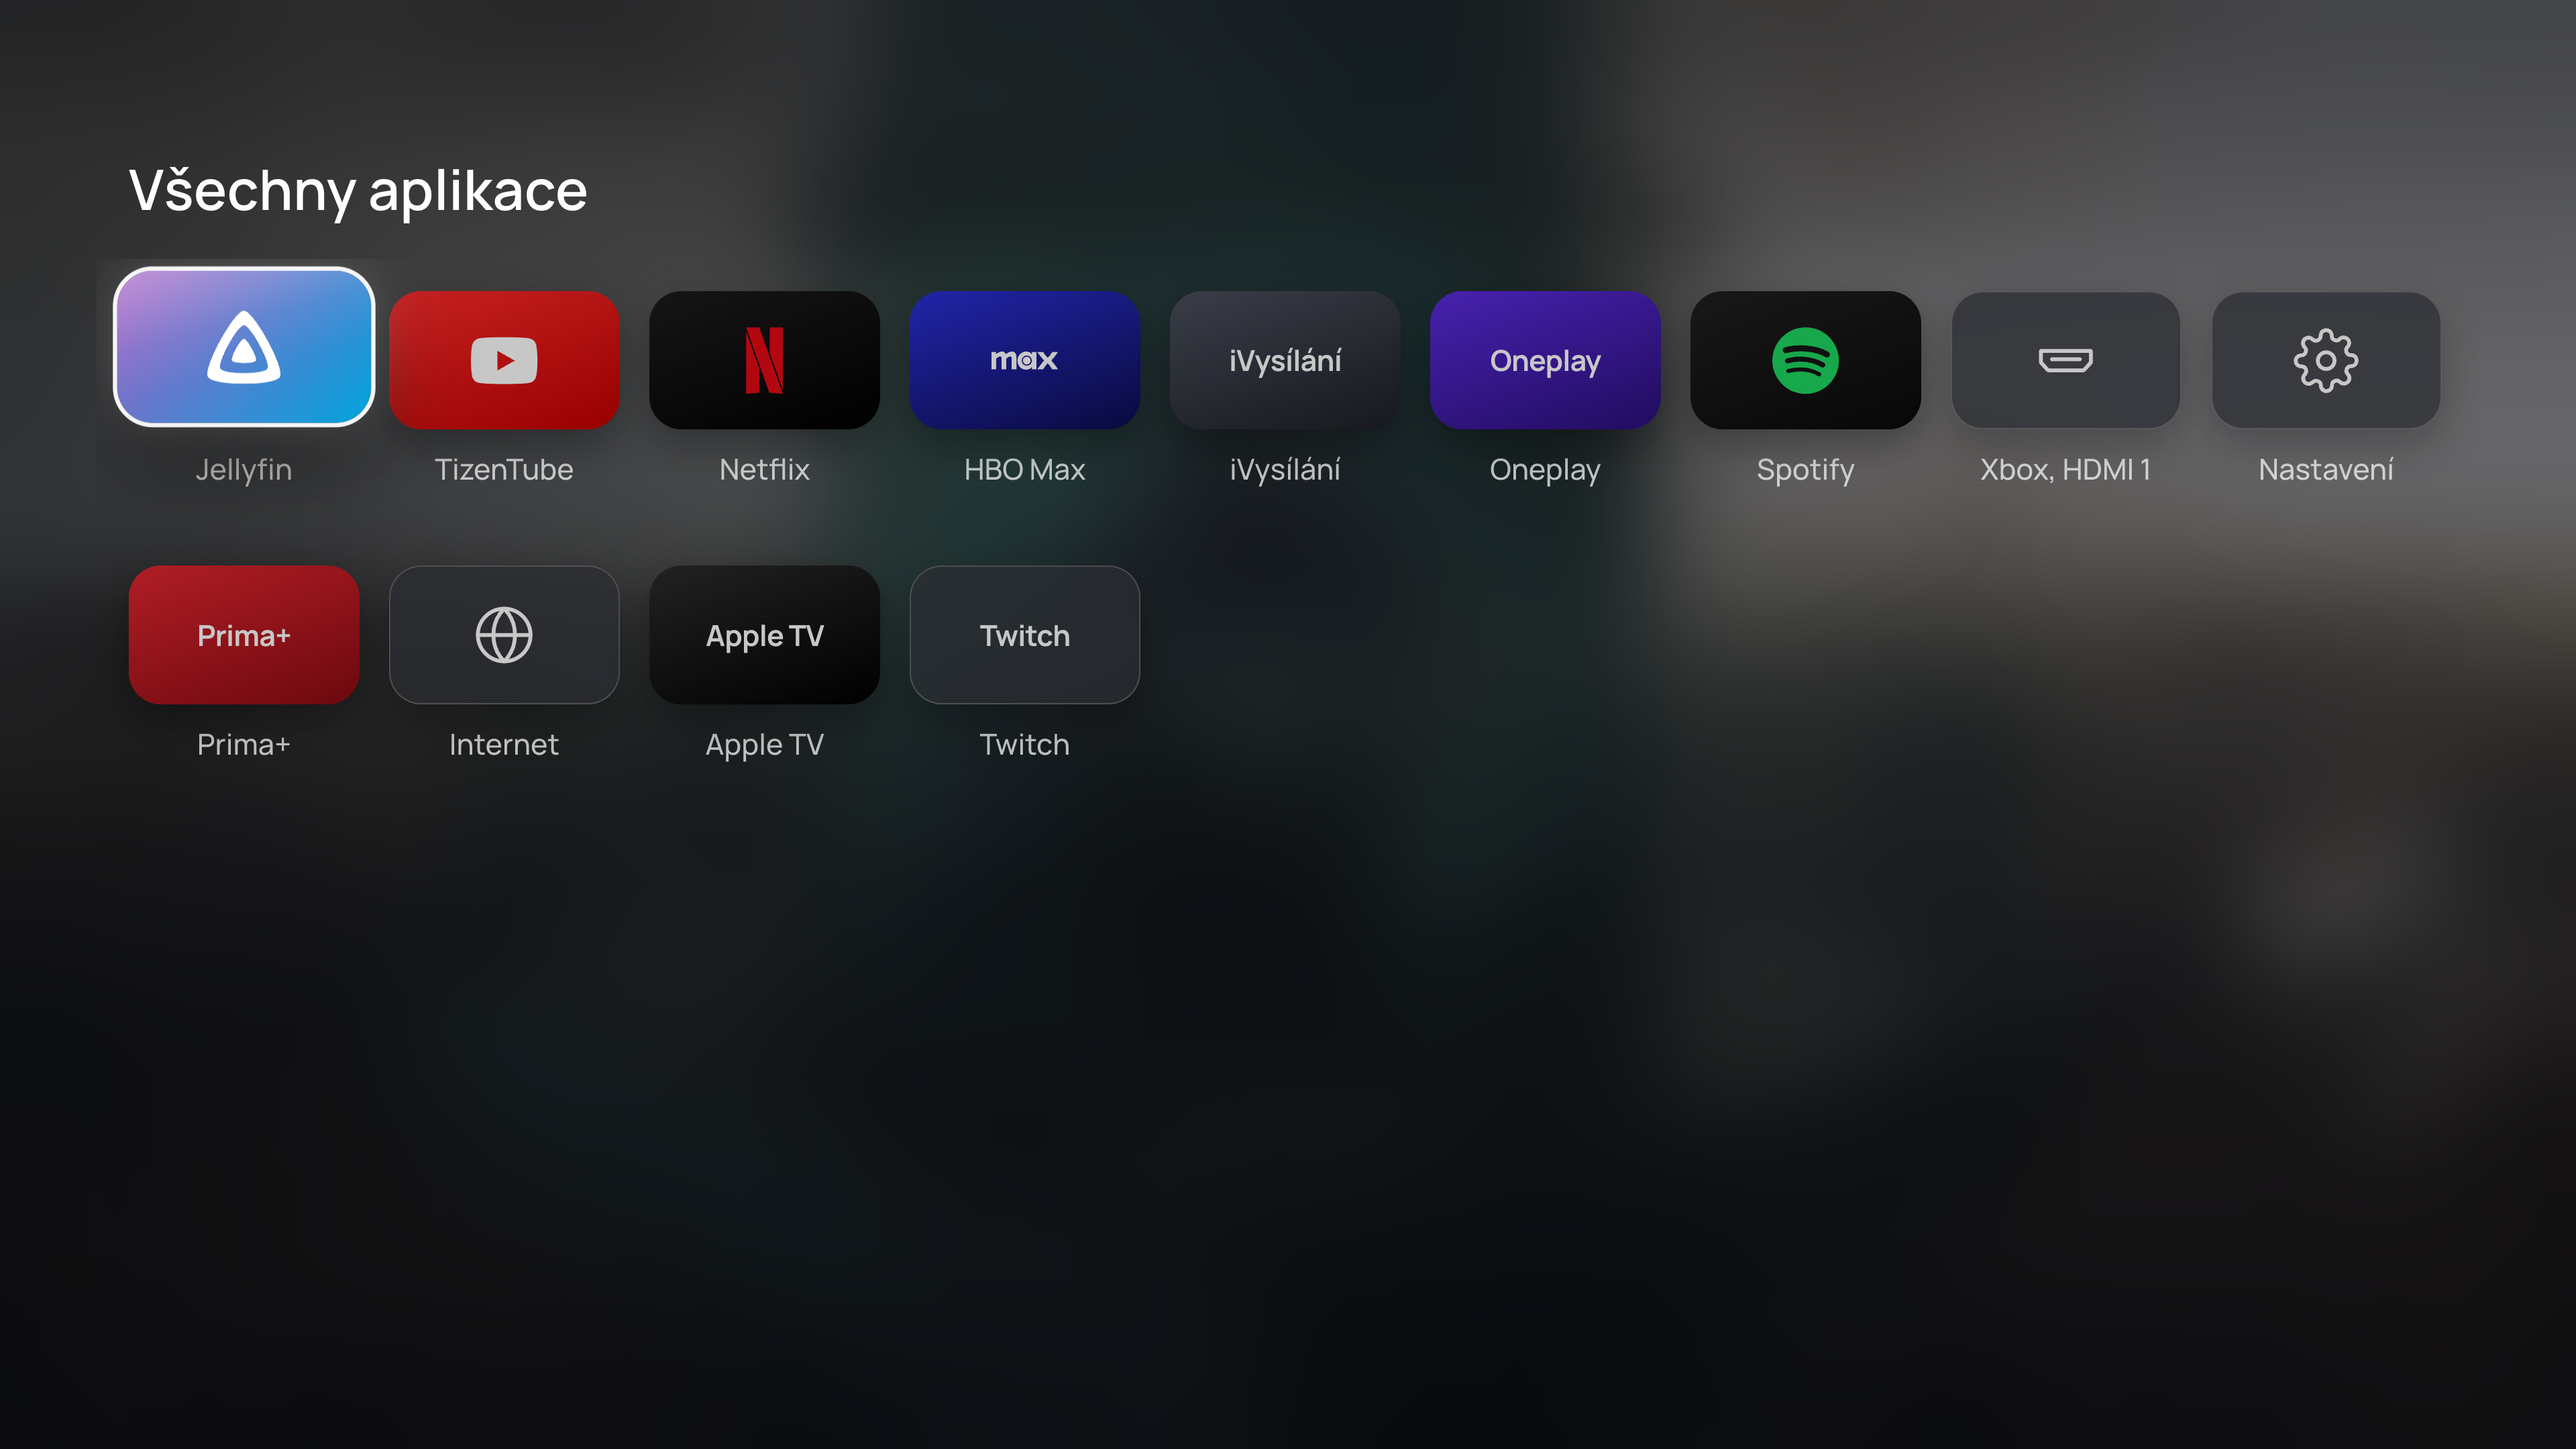
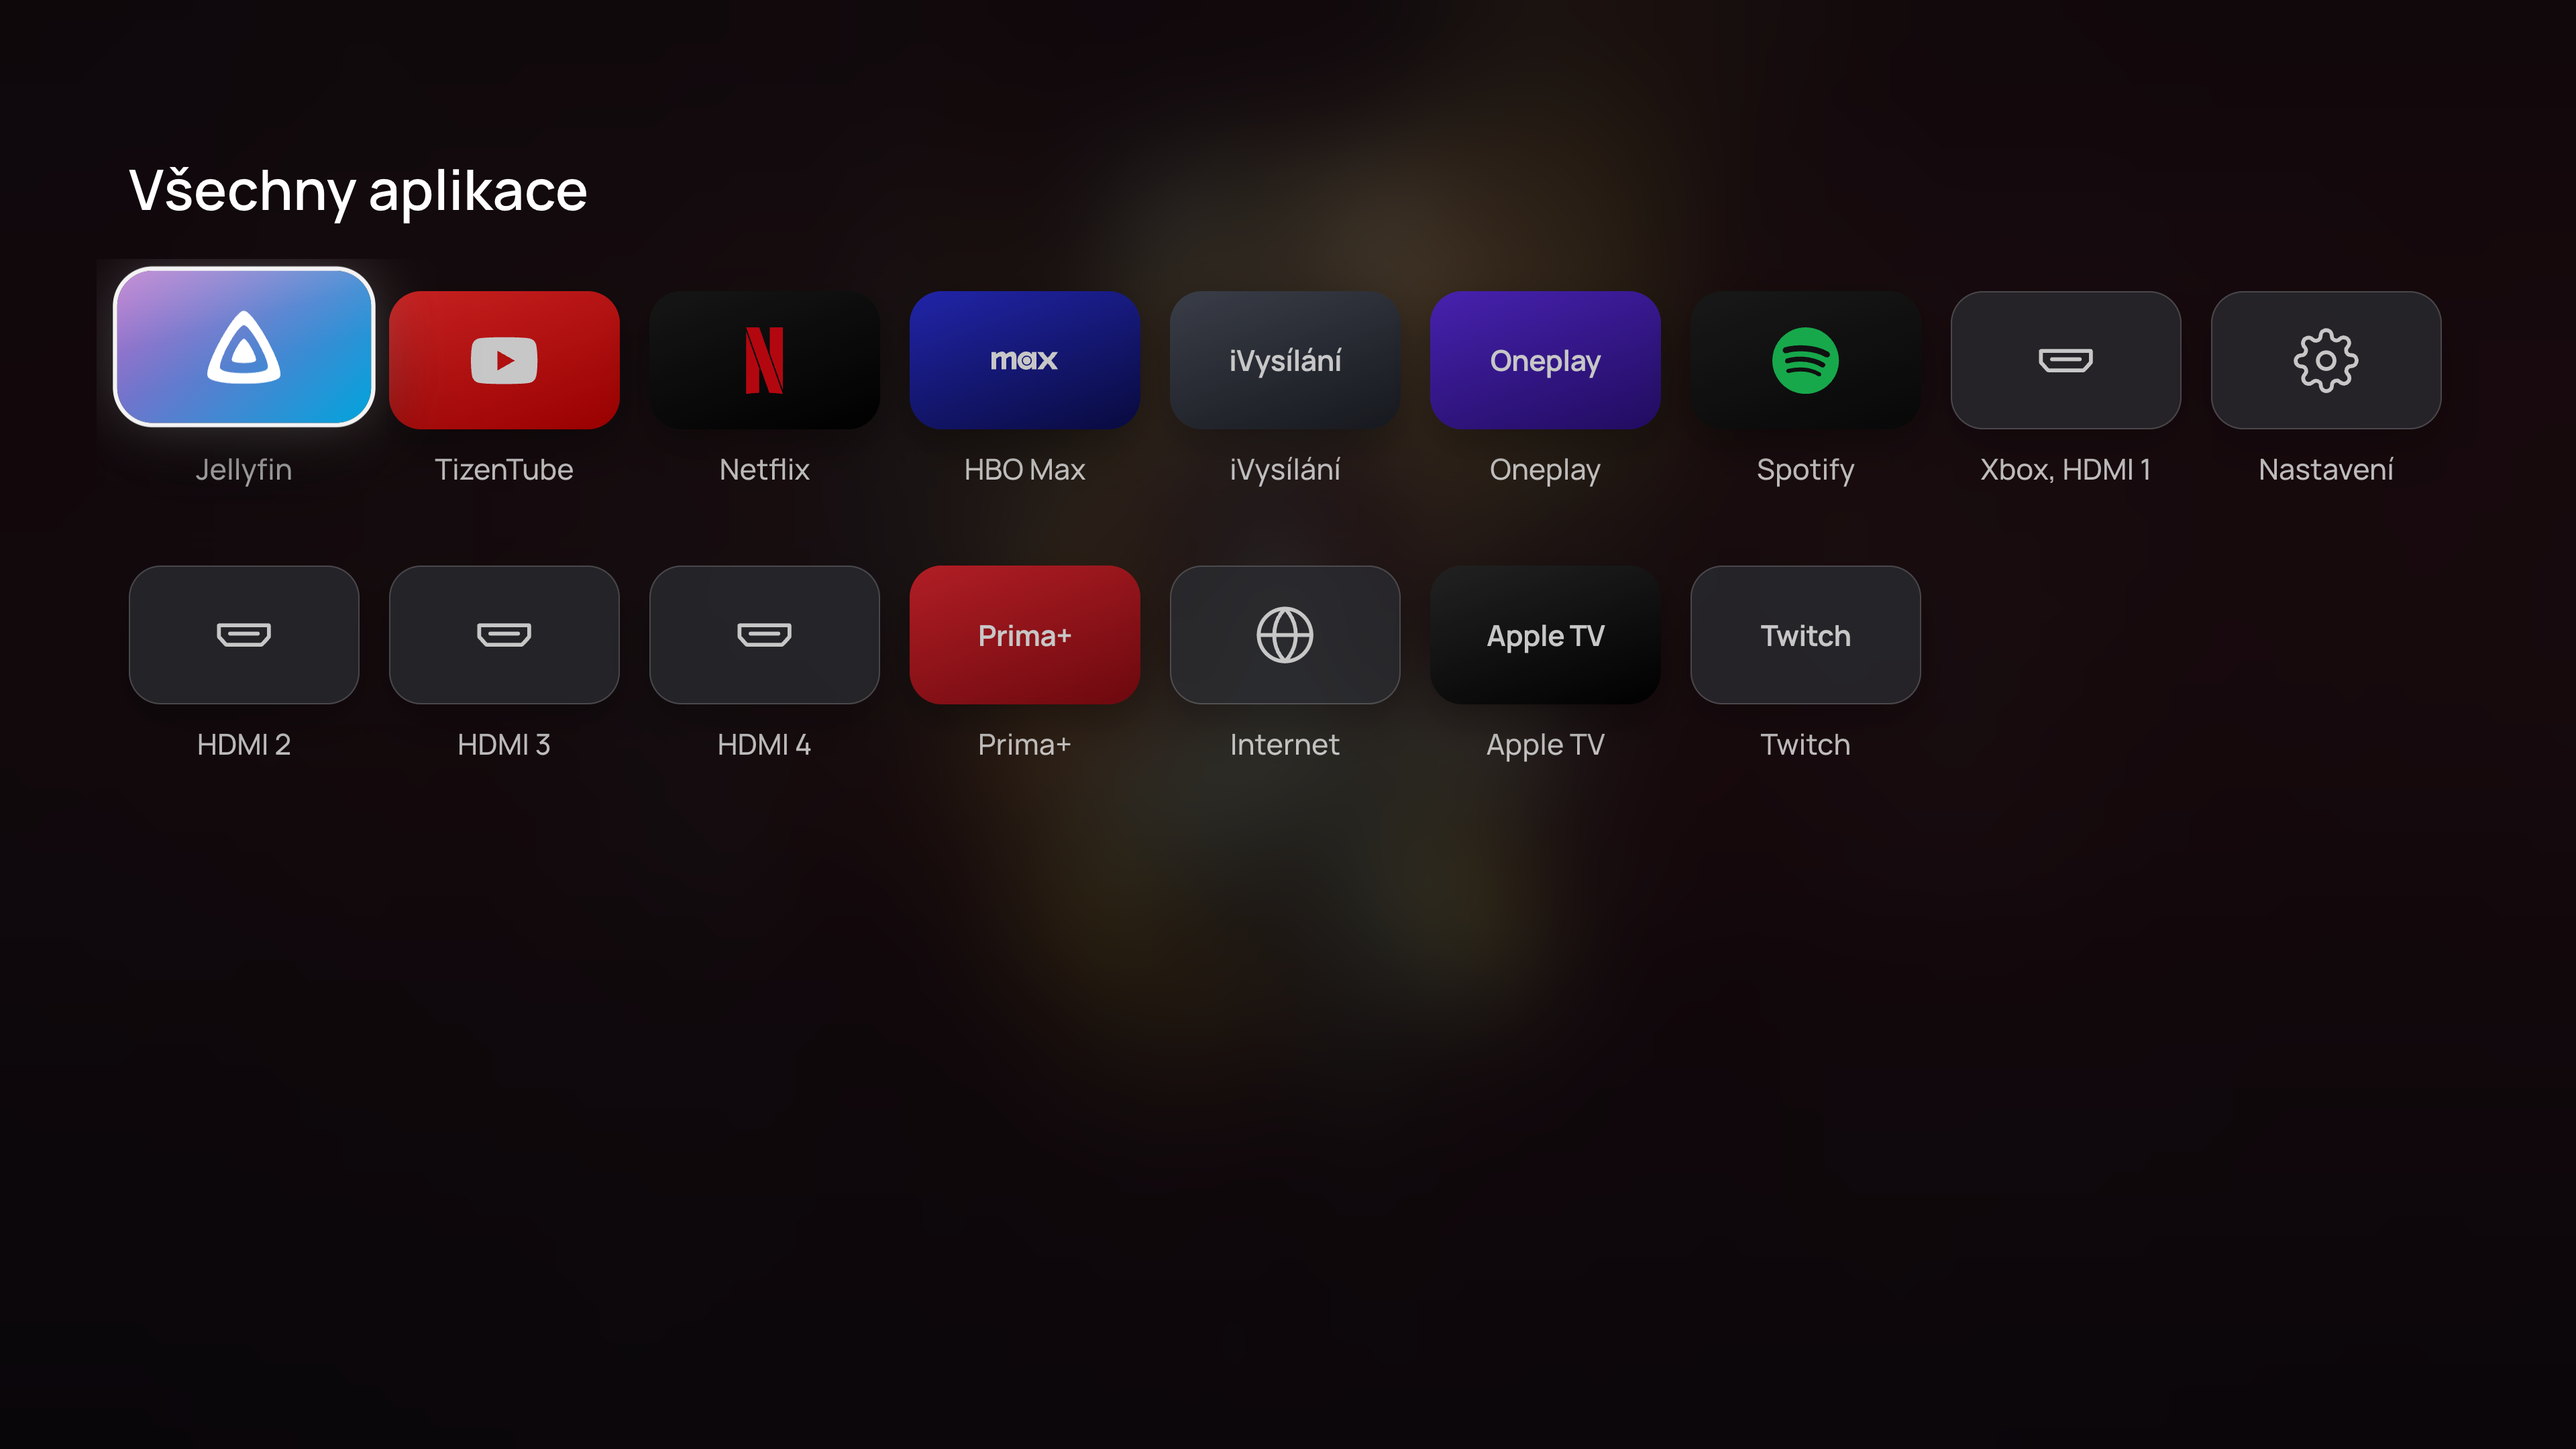
HDMI 2 to 4 in All apps; start from a stored copy and the last still

diff --git a/app.html b/app.html
@@ -296,6 +296,9 @@
   ];
   // Apps that live only in "All apps" (Down), with a look of their own. Anything else installed gets a plain tile.
   var EXTRA = [
+    { name: 'HDMI 2', icon: 'hdmi', glass: true, fg: '#fff', key: 'KEY_HDMI2' },
+    { name: 'HDMI 3', icon: 'hdmi', glass: true, fg: '#fff', key: 'KEY_HDMI3' },
+    { name: 'HDMI 4', icon: 'hdmi', glass: true, fg: '#fff', key: 'KEY_HDMI4' },
     { name: 'Prima+',    icon: 'word',     bg: 'linear-gradient(160deg,#e3262f,#8a0b12)', fg: '#fff', tv: 'sLZ6zpyDlX.iPrimaTizen' },
     { name: 'Internet',  icon: 'globe',    glass: true, fg: '#fff', tv: '3202010022079' },
     { name: 'Apple TV',  icon: 'word',     bg: 'linear-gradient(160deg,#2b2b2b,#000)', fg: '#fff', tv: '3201807016597' },
@@ -413,6 +416,7 @@
         if (front >= 0) walls[front].classList.remove('shown');
         front = front === 0 ? 1 : 0;
         lastSrc = photo.src;
+        try { localStorage.setItem('tvhome.photo', JSON.stringify(photo)); } catch (e) {}   // shown first at the next start
         shownFilm = photo.film || null;
         $('credit').innerHTML = photo.title ? '<b></b><span></span>' : '';
         if (photo.title) {
@@ -425,6 +429,8 @@
       back.src = photo.src;
     }, function () { loading = false; });
   }
+  // Start with the last still: the TV has it cached, so it shows at once instead of after the film list loads.
+  try { var last = JSON.parse(localStorage.getItem('tvhome.photo')); if (last && last.src) queue.push(last); } catch (e) {}
   nextWallpaper();
   setInterval(nextWallpaper, ROTATE_MS);
   window.addEventListener('online', nextWallpaper);

diff --git a/home.html b/home.html
@@ -10,18 +10,29 @@
   // TizenBrew fetches this file through jsDelivr, which can keep an old copy for hours.
   // So this file stays tiny and never changes: it loads the newest app.html straight from GitHub
   // (cached for 5 minutes at most), and the copy that came with the module if GitHub cannot be reached.
+  // A copy kept in local storage opens at once; the fresh one is fetched meanwhile and used from the next start.
   (function () {
+    var KEY = 'tvhome.app';
     var SOURCES = [
       'https://raw.githubusercontent.com/ottomansky/tvhome/main/app.html?t=' + Math.floor(Date.now() / 300000),
       'app.html'
     ];
+    var cached = null, shown = false;
+    try { cached = localStorage.getItem(KEY); } catch (e) {}
+    function show(html) {
+      if (shown) return;
+      shown = true;
+      document.open(); document.write(html); document.close();
+    }
+    if (cached) show(cached);
     function load(i) {
       if (i >= SOURCES.length) return;
       var x = new XMLHttpRequest();
       x.open('GET', SOURCES[i]); x.timeout = 8000;
       x.onload = function () {
         if (x.status !== 200 || x.responseText.indexOf('<html') < 0) return load(i + 1);
-        document.open(); document.write(x.responseText); document.close();
+        try { localStorage.setItem(KEY, x.responseText); } catch (e) {}
+        show(x.responseText);
       };
       x.onerror = x.ontimeout = function () { load(i + 1); };
       x.send();

diff --git a/README.md b/README.md
@@ -18,6 +18,8 @@ Made for a 65 inch Samsung OLED (2024, Tizen 8.0) and laid out for 4K: everythin
 | --- | --- |
 | ![Ambient mode](screenshots/ambient.png) | ![Offline](screenshots/offline.png) |
 
+TV Home opens from a copy stored on the TV and shows the last film still at once (about 0.1 s in Chrome), then picks up a newer version from GitHub for the next start.
+
 All screenshots are real 3840x2160 captures from Chrome, driven with remote key events, against a stand-in for the TV that lists the apps this TV reports.
 
 ## Install on the TV
@@ -37,7 +39,7 @@ Left and Right move between apps, OK opens one, Back closes the launch screen.
 
 - **Up** opens the film info: title, year, length, genres, TMDB rating, a short synopsis, whether it is in Czech cinemas or gets a new episode, and where it streams in the Czech Republic. If it streams on an app you have, OK opens that app. Down or Back closes it.
 - **Down** opens all apps installed on the TV, the most recently opened first. Arrows move, OK opens, Up from the first row or Back goes back.
-- The last two tiles are **HDMI 1** (the Xbox) and **Settings**. They press the TV's own HDMI 1 and Menu keys. The first time, the TV asks whether to allow "TV Home"; press Allow once. After 90 s without input the app row fades out and only the picture and time stay. After 20 minutes the whole screen dims. Any button wakes it, and that first press does nothing else.
+- The last two tiles are **HDMI 1** (the Xbox) and **Settings**. HDMI 2, 3 and 4 are the first tiles on the second row under Down, two presses away. They press the TV's own HDMI and Menu keys. The first time, the TV asks whether to allow "TV Home"; press Allow once. After 90 s without input the app row fades out and only the picture and time stay. After 20 minutes the whole screen dims. Any button wakes it, and that first press does nothing else.
 
 ## How it works
 
